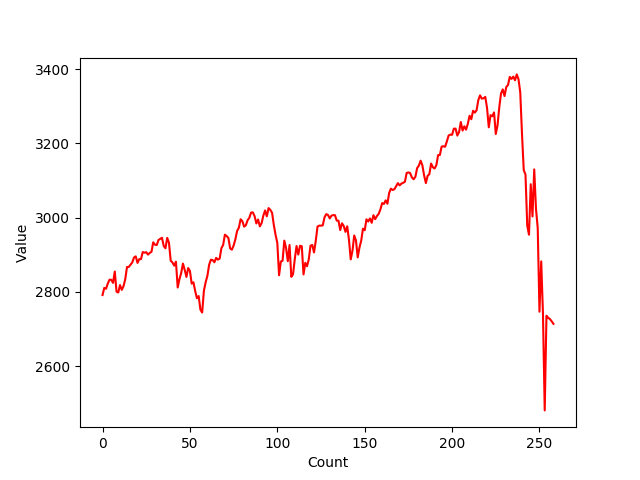
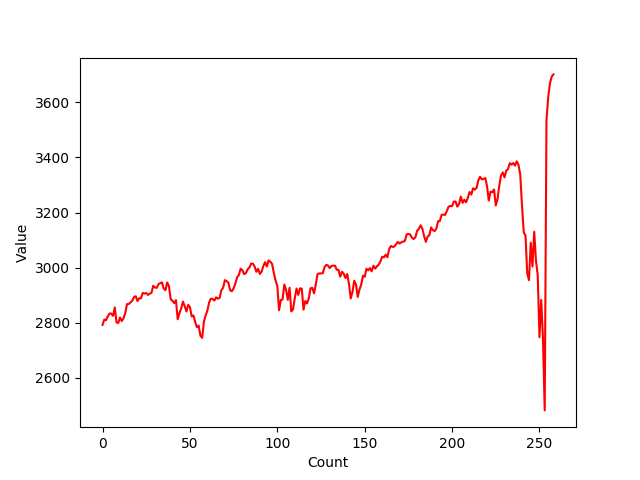
Automated Commision

diff --git a/prediction/sequential.py b/prediction/sequential.py
@@ -25,13 +25,13 @@ def sequential_prediction(model=None, stock_id=None, date=None, graphing=True, l
     vix, vix_id = download_stock("^vix", date, 1, True)
     for i in range(len(vix) - 1 - WEEK, 0, -1):
         del vix[i]
-    votality_rate = (vix[len(vix) - 1] - vix[0]) / len(vix)
+    votality_rate = (vix[len(vix) - 1] - vix[0]) * 10 / len(vix)
 
     bias_momentum = 0.00 # smaller the better
     for i in range(timeseries.raw_size() - 1, timeseries.raw_size() - 10, -1):
         if timeseries.raw_datapoint(i) < timeseries.raw_datapoint(i - 1):
             bias_momentum += 1
-    bias_momentum *= -10.00 * votality_rate
+    bias_momentum *=  votality_rate
     print(bias_momentum)
 
     for count in range(5):
